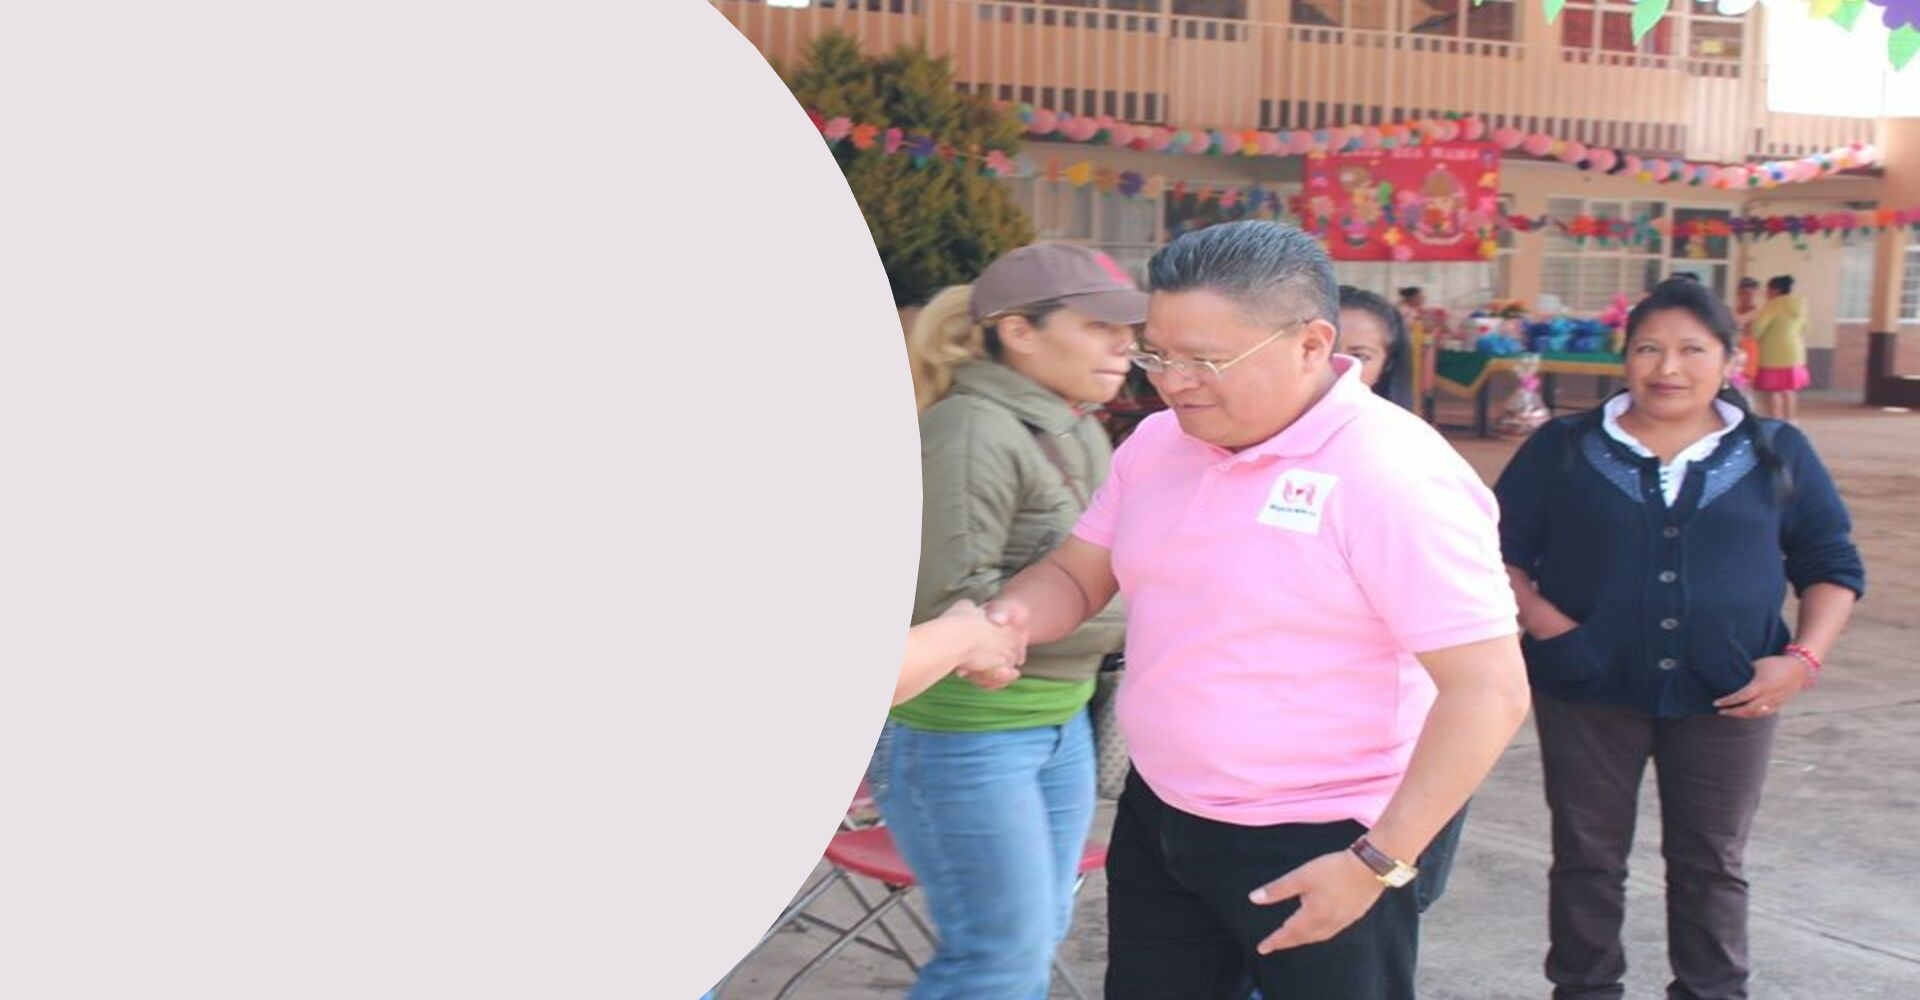
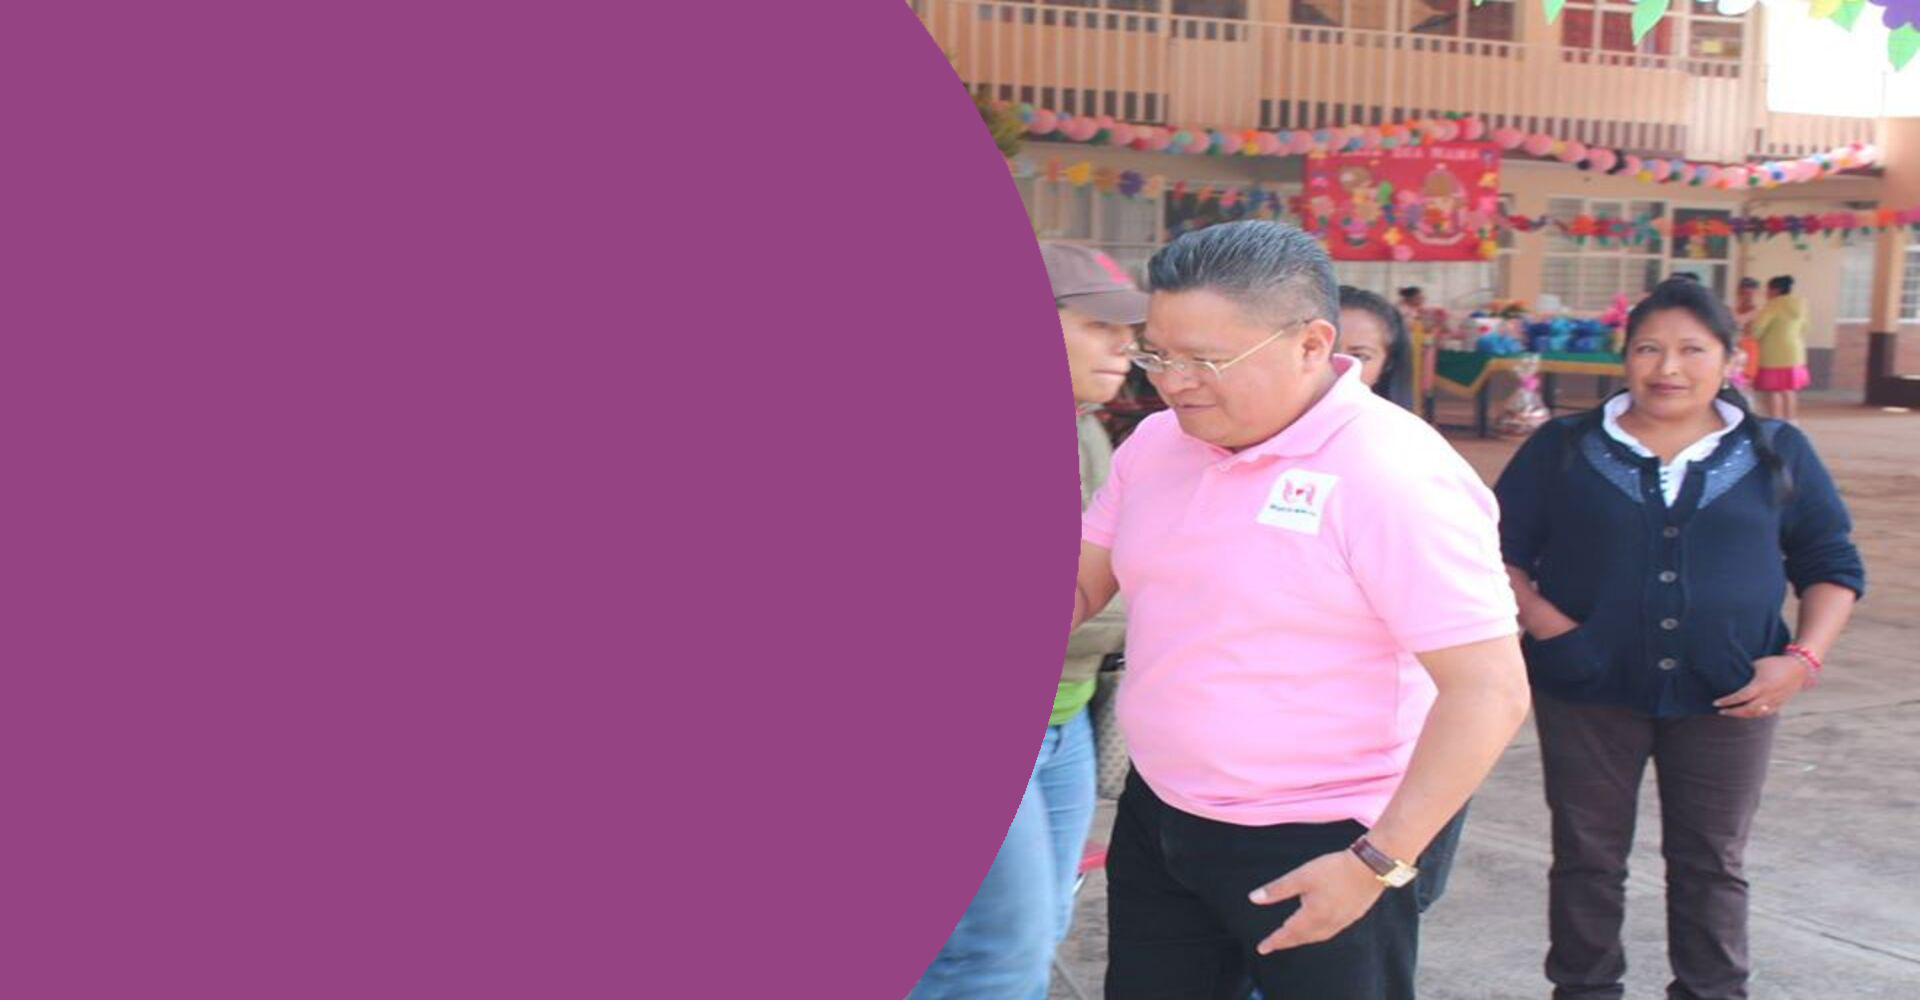
AVANCES DEL 13 DE MARZO

diff --git a/css/estilos.css b/css/estilos.css
@@ -58,8 +58,8 @@ a:hover {
 
 .btn-primary:hover {
   color: #fff;
-  background-color: #db56ca;
-  border-color: #db56ca;
+  background-color: #9d865a;
+  border-color: #9d865a;
 }
 
 .desk{
@@ -108,7 +108,7 @@ a:hover {
   }
 
   .navbar-nav {
-    background: #e676a8;
+    background: #964383;
     border-radius: 25px;
   }
 
@@ -129,7 +129,7 @@ a:hover {
     color: #9d865a;
   }
   .navbar-light .navbar-nav .nav-link:hover {
-    color: rgb(228, 115, 218);
+    color: rgb(230, 118, 168);
   }
   .dropdown:hover>.dropdown-menu {
     display: block;
@@ -145,7 +145,7 @@ a:hover {
   .dropdown-menu {
     left: -25%;
     color: #9d865a;
-    background-color: #e9e3e7;
+    background-color: #964383;
     border: 1px solid rgba(0,33,51,.15);
     border-radius: 25px;
     padding: 8px;
@@ -179,7 +179,7 @@ a:hover {
   @media (min-width: 320px) and (max-width: 767px) {
     .navbar{
       padding: 0.5rem;
-      background:#e9e3e7;
+      background:#e676a8;
     }
 
     .navbar-expand-md .navbar-nav .nav-link {
@@ -332,7 +332,7 @@ a:hover {
 }
 
 #contacto p{
-  color: #964383;
+  color: #e676a8;
 }
 
 /*inputs estilos*/
@@ -340,8 +340,8 @@ a:hover {
   color: #d1c1a2;
   background-color: rgb(255, 255, 255, 0.1);
   background-clip: padding-box;
-  border: 1px solid #964383;
-  border-bottom: 1px solid #964383;
+  border: 1px solid #e676a8;
+  border-bottom: 1px solid #e676a8;
   border-radius: 0;
   transition: border-color .55s ease-in-out,box-shadow .55s ease-in-out;
 }
